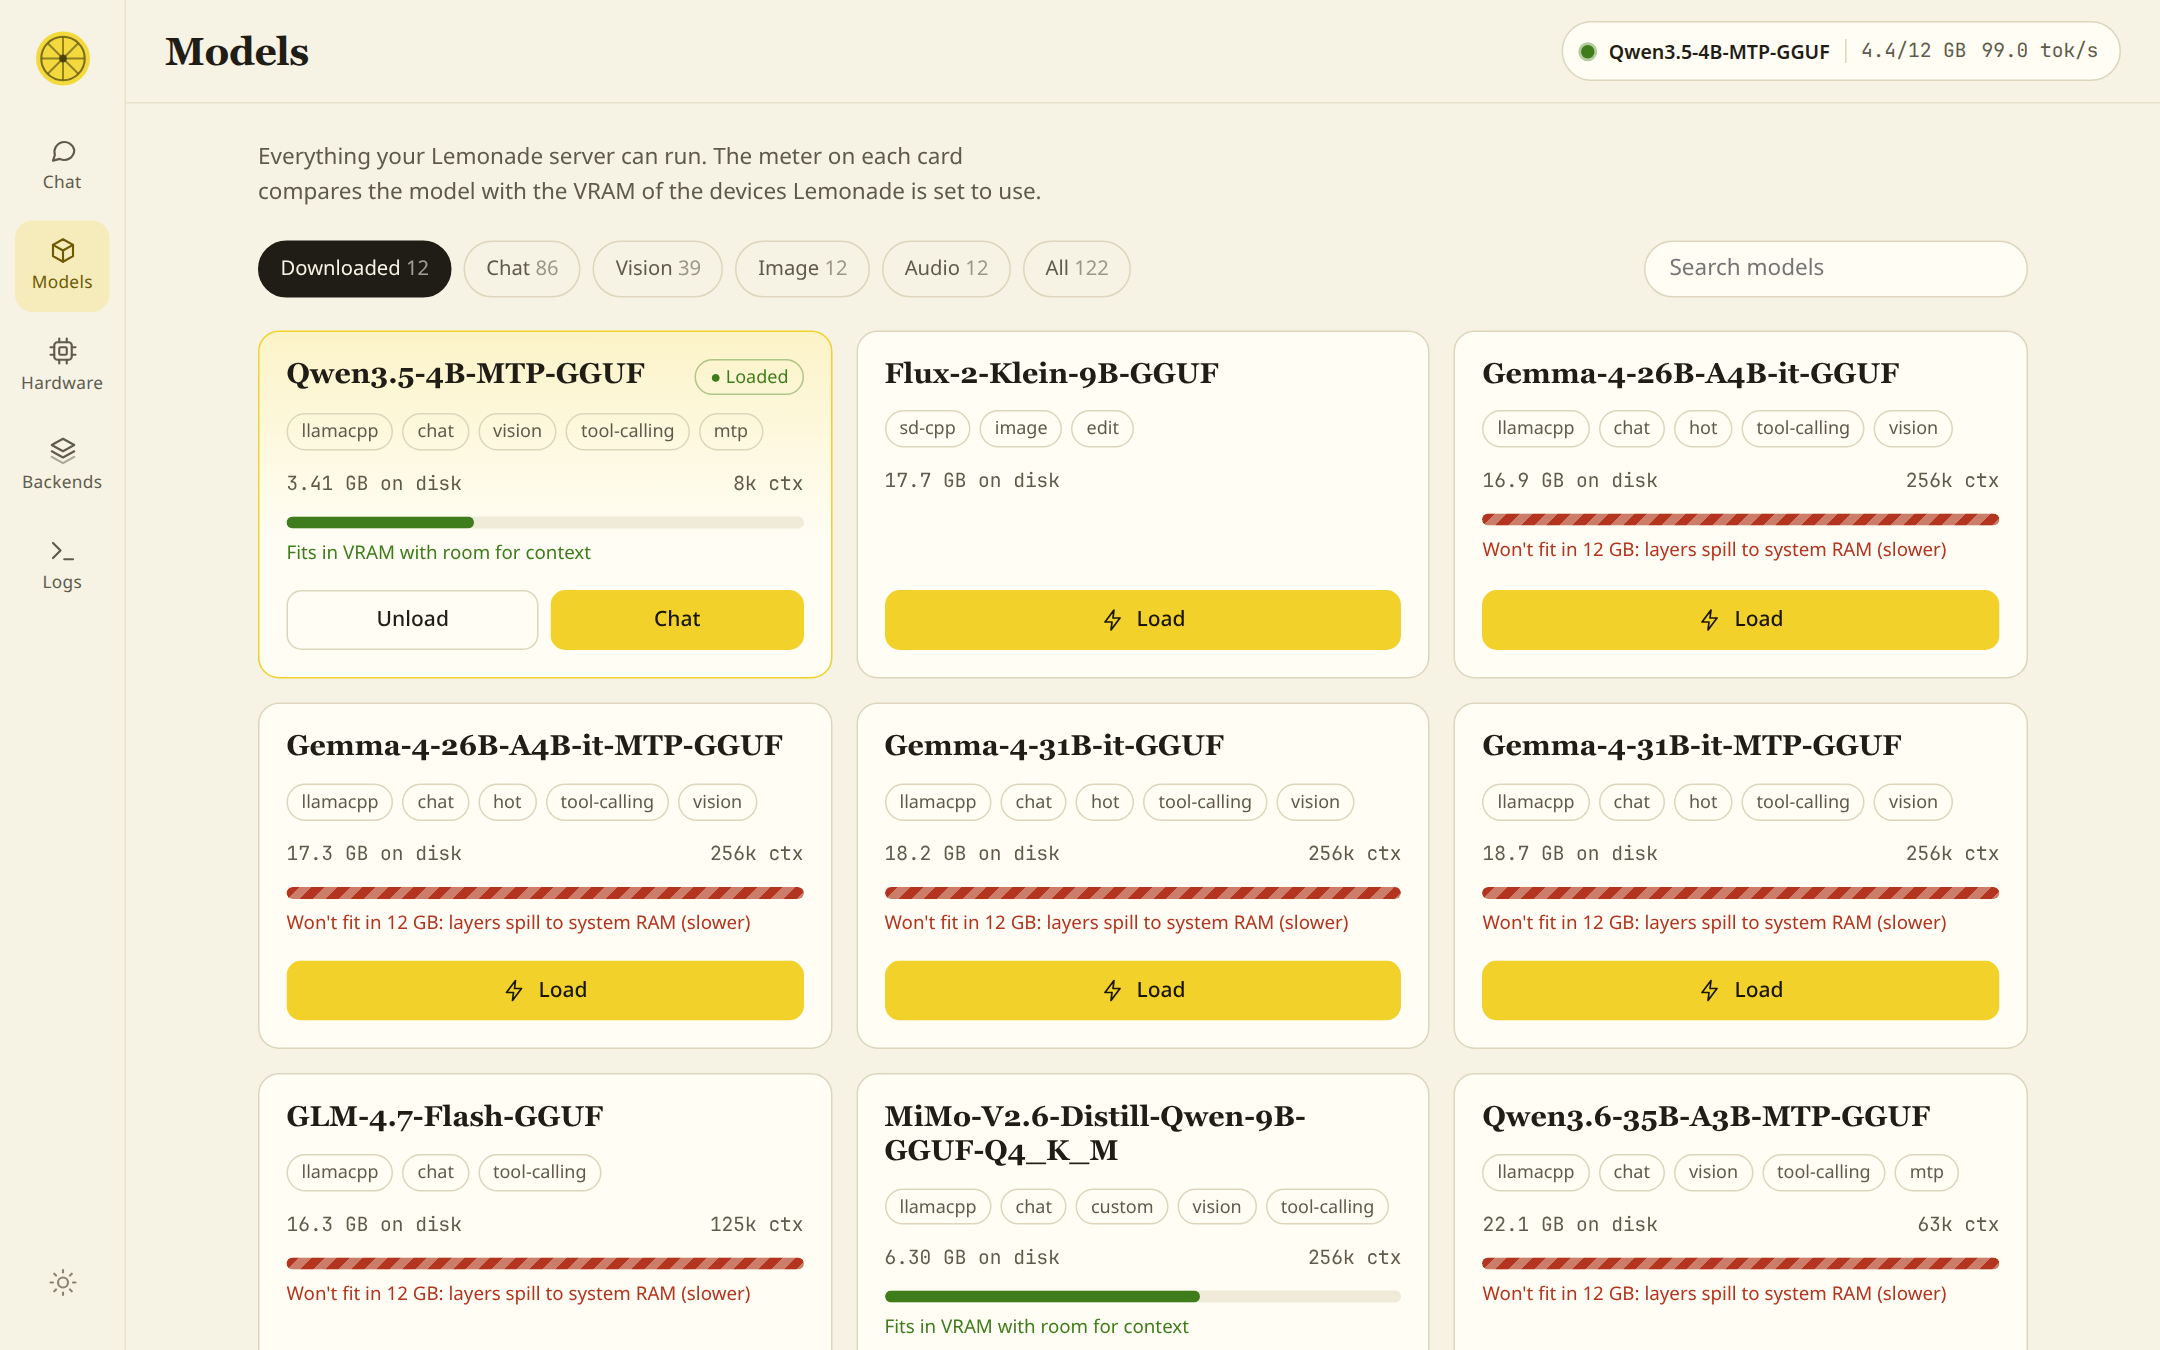
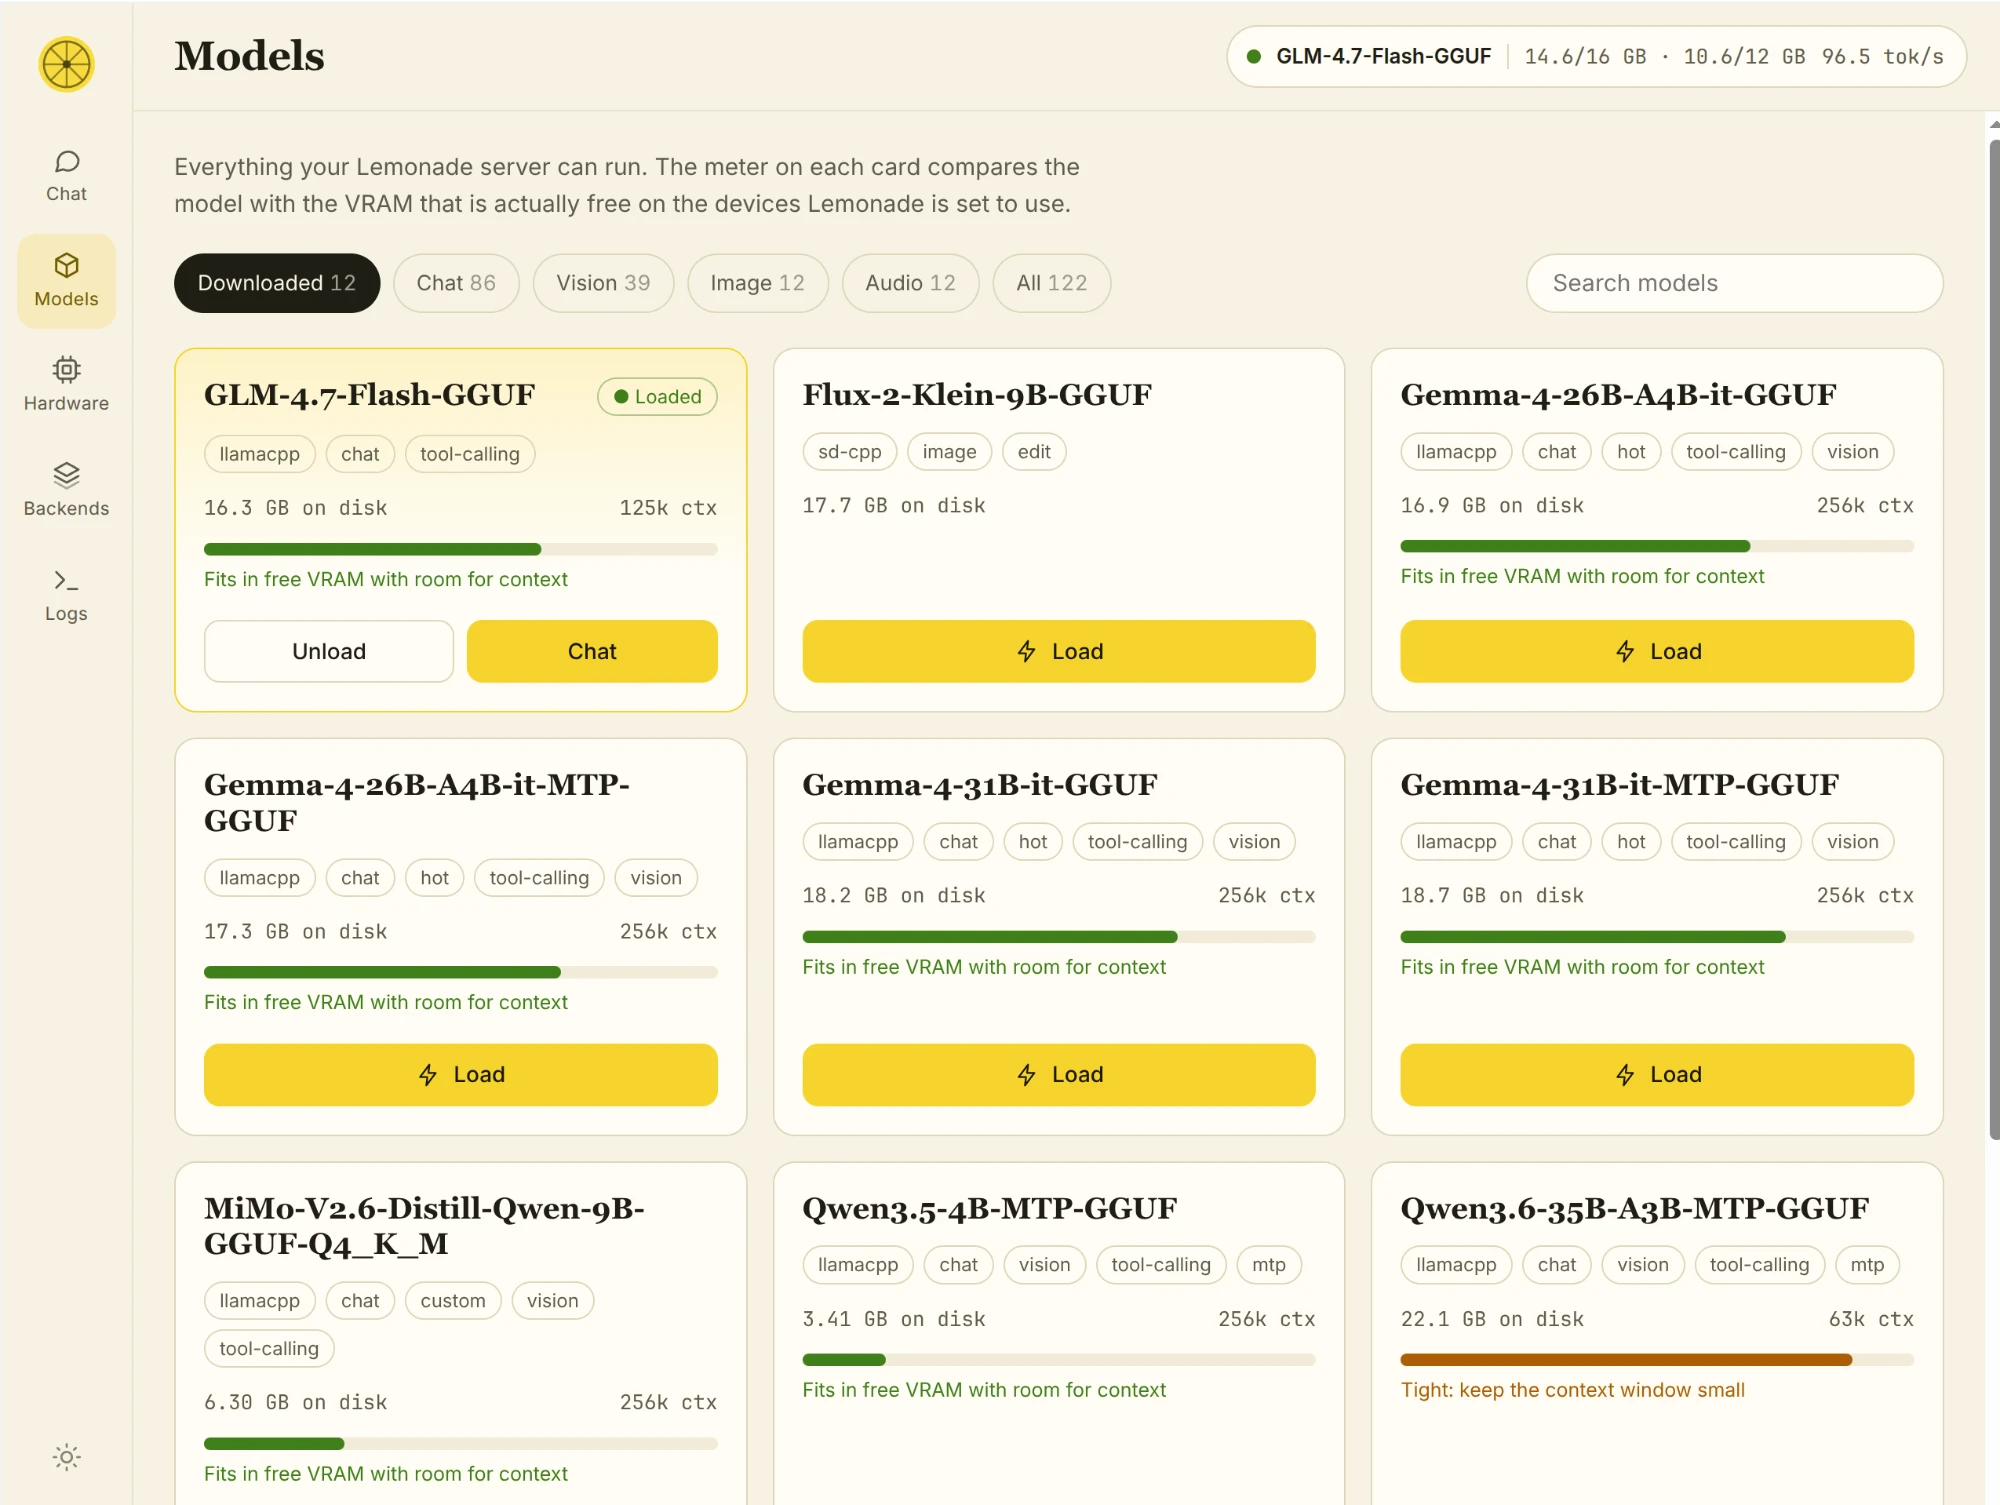
Update the Models screenshot

diff --git a/README.md b/README.md
@@ -23,7 +23,7 @@ Streaming answers with speed stats, a model picker, and per-chat settings.
 ![Chat](docs/screenshots/chat-empty.png)
 
 ### Models
-The meter on each card is the size of the model against the VRAM that is free right now. If another program is using the card, Zest says so and names it.
+The meter on each card is the size of the model against the VRAM that is free right now, so you can see what will fit before you load it. If another program is using the card, Zest warns you and names it.
 
 ![Models](docs/screenshots/models.png)
 
